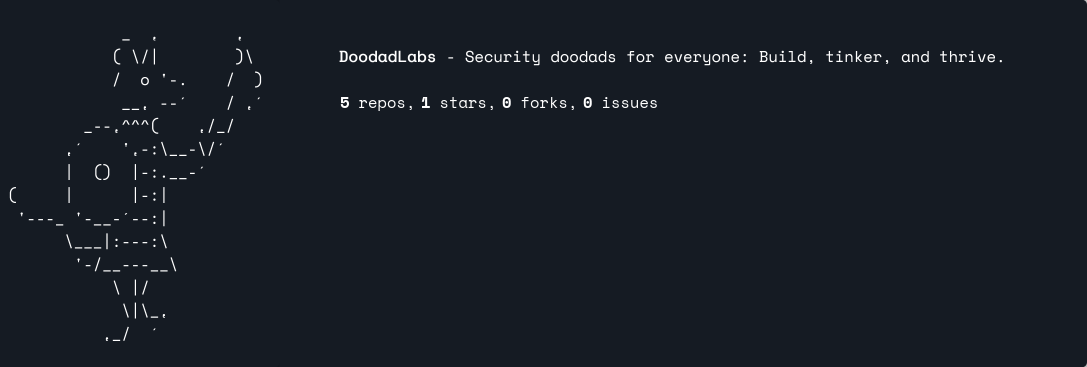
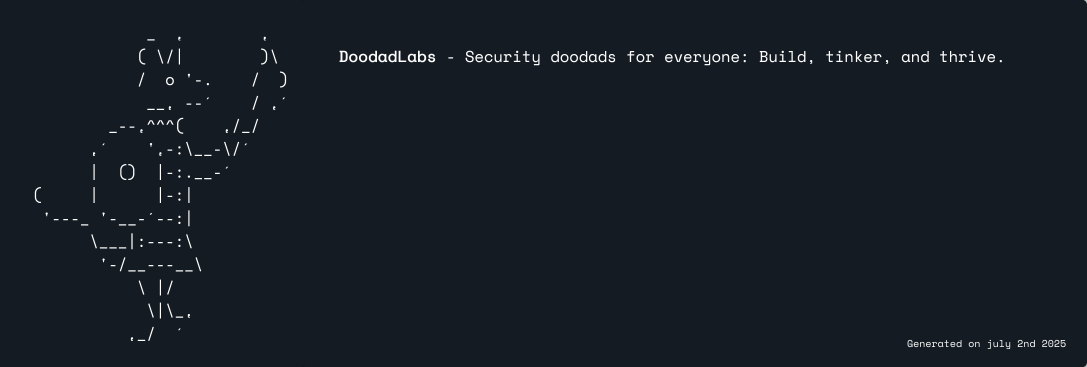
Add moment.js for date formatting and update image generation logic

diff --git a/generate.js b/generate.js
@@ -1,6 +1,7 @@
 const { createCanvas, loadImage, registerFont } = require('canvas');
 const fs = require('fs');
 const axios = require('axios');
+const moment = require('moment');
 
 registerFont('./fonts/SpaceMono.ttf', { family: 'Space Mono', weight: 'normal', style: 'normal' });
 registerFont('./fonts/SpaceMono-Bold.ttf', { family: 'Space Mono Bold', weight: 'bold', style: 'normal' });
@@ -29,28 +30,19 @@ async function loadImages() {
 
 async function generateImage(theme = 'light') {
 
-    const repos = await fetchRepos();
-    console.log(`Fetched ${repos.length} repos`);
-
-    console.log(JSON.stringify(repos))
+    //const repos = await fetchRepos();
 
     const canvas = createCanvas(WIDTH, HEIGHT);
     const ctx = canvas.getContext('2d');
     const { template, templateDark } = await loadImages();
 
+    ctx.fillStyle = theme === 'light' ? 'black' : 'white';
     ctx.drawImage(theme === 'light' ? template : templateDark, 0, 0, WIDTH, HEIGHT);
 
-    const repoCount = repos.length;
+    /* const repoCount = repos.length;
     const starCount = repos.reduce((sum, repo) => sum + repo.stars, 0);
     const forkCount = repos.reduce((sum, repo) => sum + repo.forks, 0);
     const issueCount = repos.reduce((sum, repo) => sum + repo.issues, 0);
-
-    console.log({
-        repoCount,
-        starCount,
-        forkCount,
-        issueCount
-    })
 
     const formatted = [
         repoCount.toLocaleString('en-gb'),
@@ -62,8 +54,6 @@ async function generateImage(theme = 'light') {
         issueCount.toLocaleString('en-gb'),
         ` issue${issueCount!==1 ? 's' : ''}`
     ];
-    
-    ctx.fillStyle = theme === 'light' ? 'black' : 'white';
 
     let x = 340;
     formatted.forEach((text, index) => {
@@ -71,7 +61,10 @@ async function generateImage(theme = 'light') {
         ctx.font = index % 2 === 0 ? '15.5px Space Mono Bold' : '15.5px Space Mono';
         ctx.fillText(text, x, 108);
         x += text.length * 9;
-    });
+    }); */
+
+    ctx.font = '10px Space Mono';
+    ctx.fillText(`Generated on ${moment().format('MMMM Do YYYY').toLowerCase()}`, WIDTH - 180, HEIGHT - 20);
 
     const buffer = canvas.toBuffer('image/png');
     fs.writeFileSync(`banner@${theme === 'light' ? 'light' : 'dark'}.png`, buffer);
